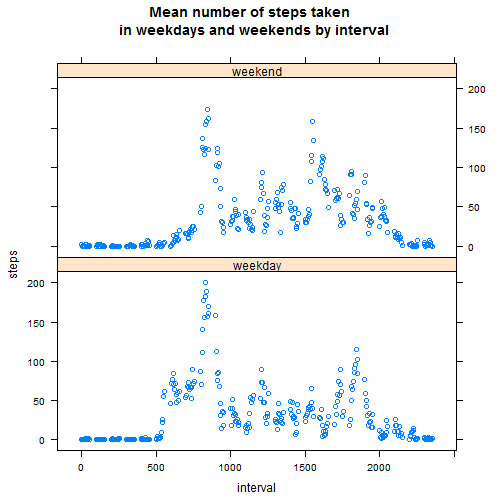
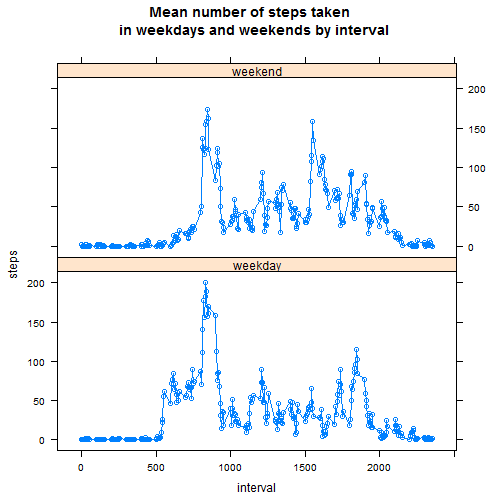
Commit for evaluation

diff --git a/PA1_template.html b/PA1_template.html
@@ -378,10 +378,10 @@ data5$day&lt;-as.factor(data5$day)
 castdata&lt;-dcast(mdata, day + interval~variable, mean)
 
 
-xyplot(castdata$steps ~ castdata$interval | castdata$day, layout=c(1,2), xlab=&quot;interval&quot;, ylab=&quot;steps&quot;, main=&quot;Mean number of steps taken \n in weekdays and weekends by interval&quot; )
+xyplot(castdata$steps ~ castdata$interval | castdata$day, layout=c(1,2), xlab=&quot;interval&quot;, ylab=&quot;steps&quot;, type=&quot;b&quot;,  main=&quot;Mean number of steps taken \n in weekdays and weekends by interval&quot; )
 </code></pre>
 
[2 lines of base64/hex data omitted]
 
 </body>
 

diff --git a/PA1_template.md b/PA1_template.md
@@ -220,7 +220,7 @@ mdata<-melt(data5, id=c("date", "interval", "day"))
 castdata<-dcast(mdata, day + interval~variable, mean)
 
 
-xyplot(castdata$steps ~ castdata$interval | castdata$day, layout=c(1,2), xlab="interval", ylab="steps", main="Mean number of steps taken \n in weekdays and weekends by interval" )
+xyplot(castdata$steps ~ castdata$interval | castdata$day, layout=c(1,2), xlab="interval", ylab="steps", type="b",  main="Mean number of steps taken \n in weekdays and weekends by interval" )
 ```
 
 ![plot of chunk 5.2](figure/5.2-1.png) 
